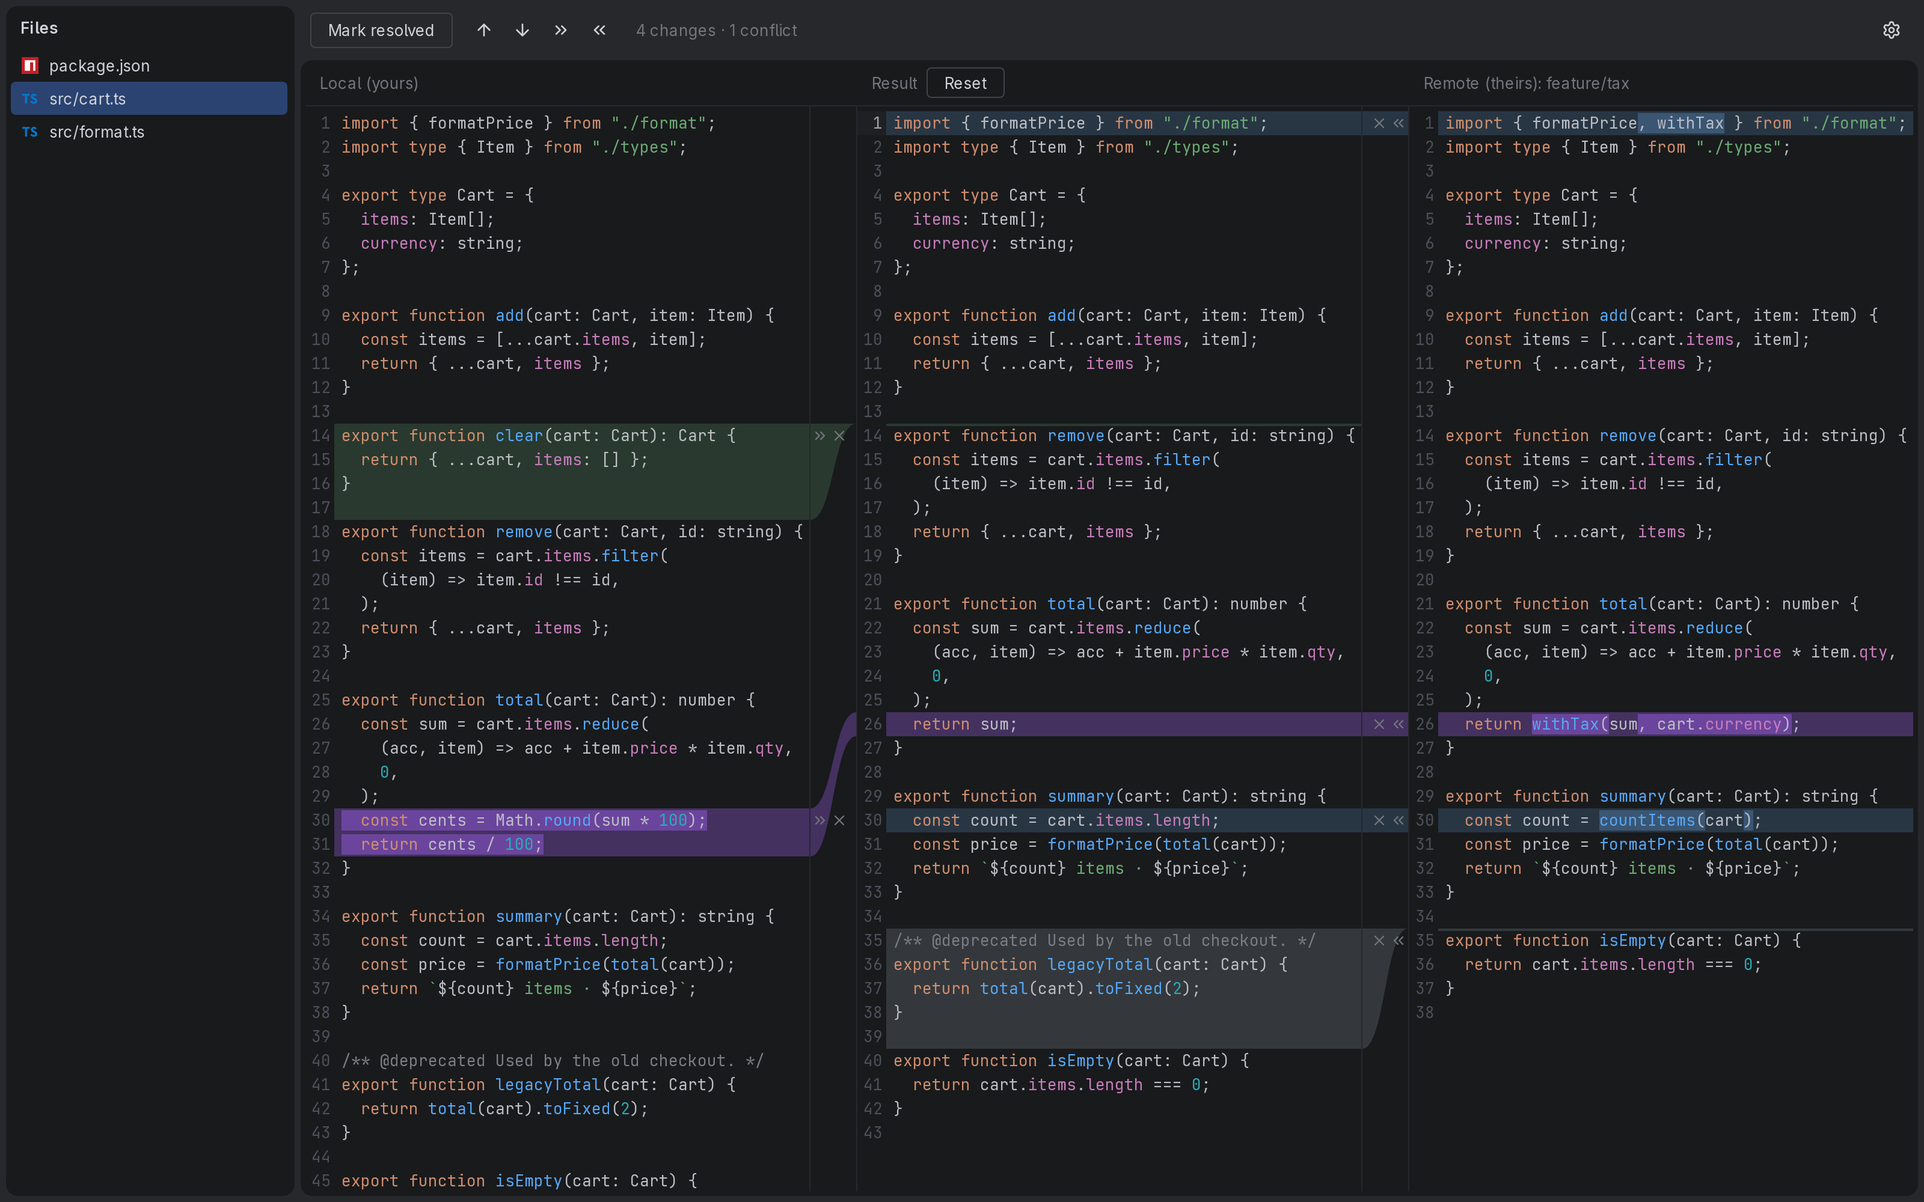
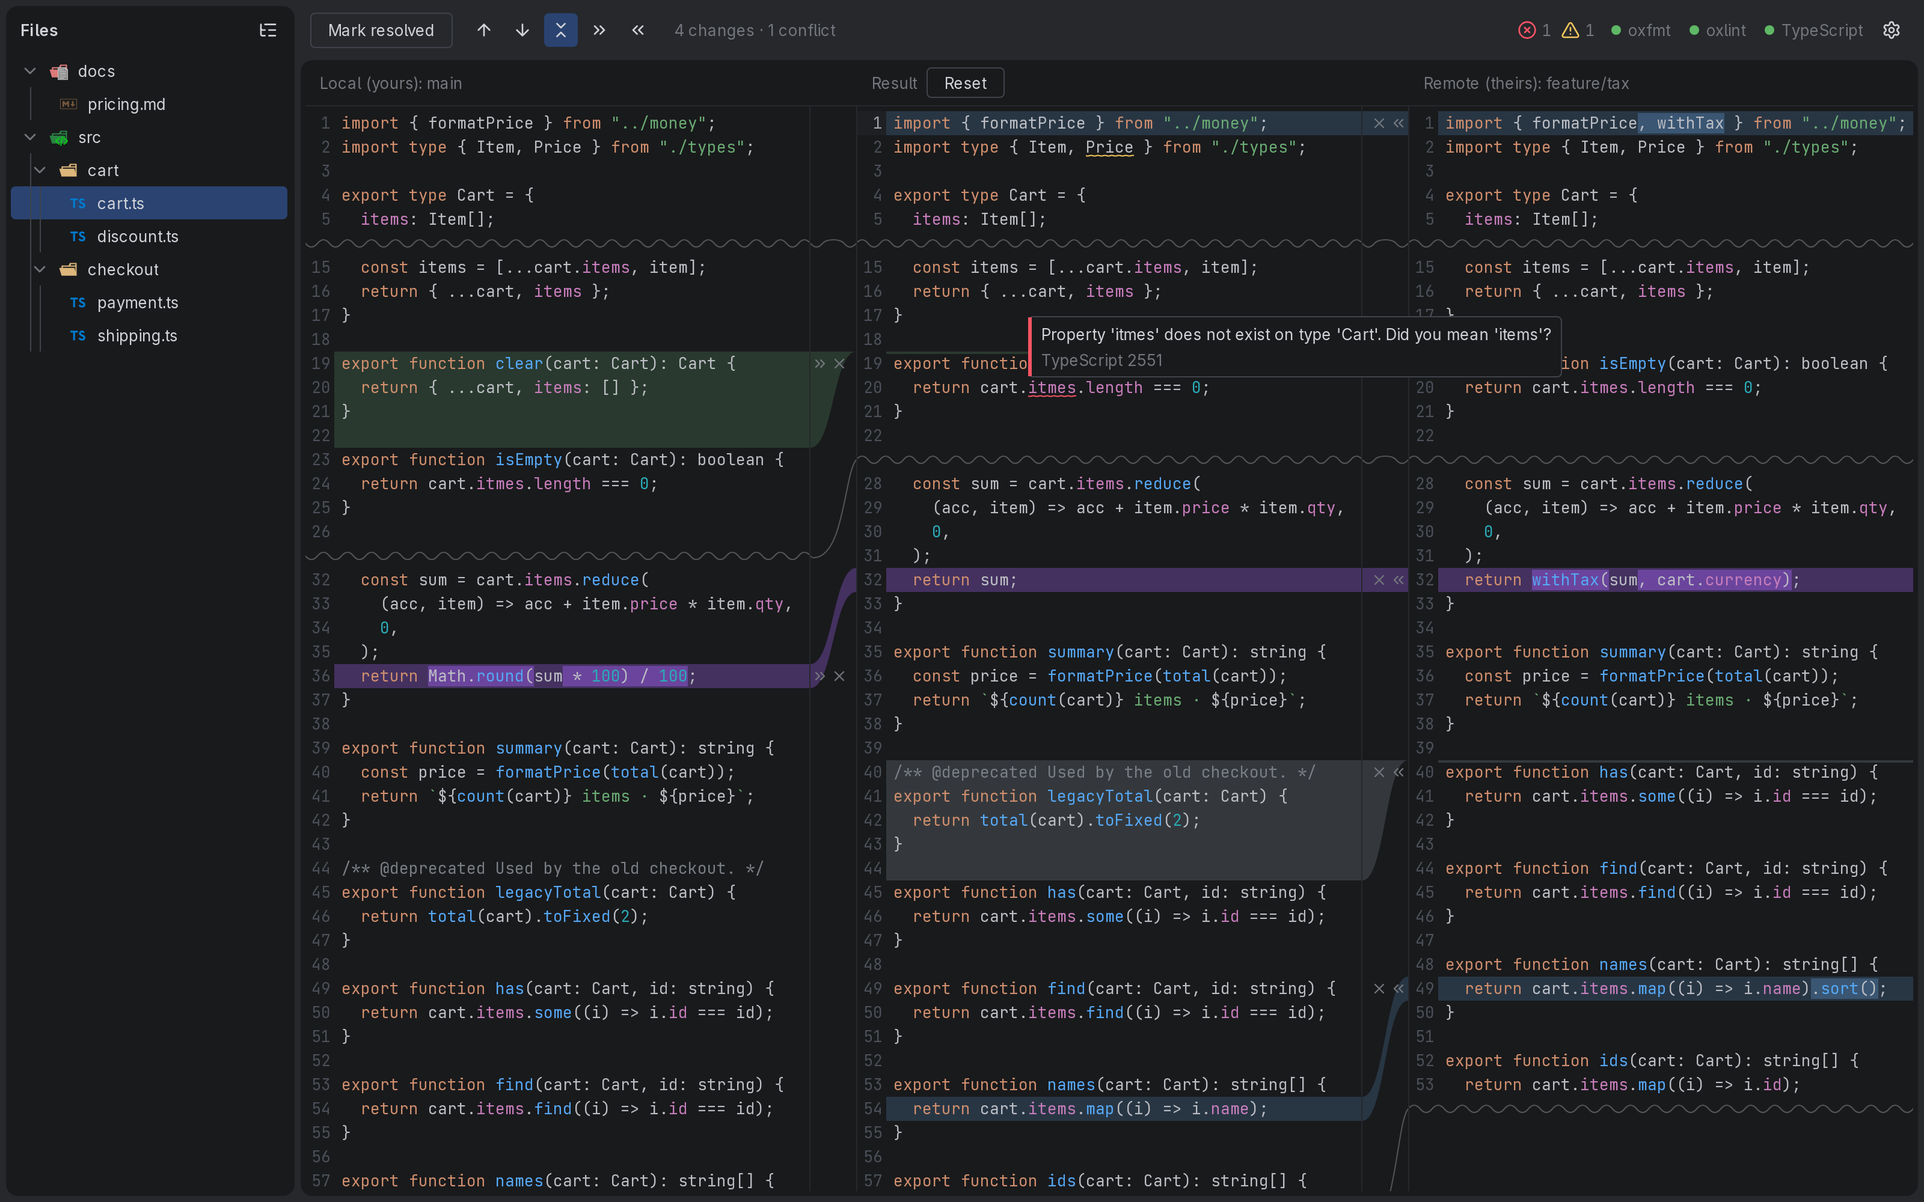
chore(release): 0.3.0
- version 0.3.0; changelog section dated 2026-10-14
- README: 0.3.0 file names, Ctrl+S, Reset to this run's start, left
  header, language servers with ruff as the added-server example
- screenshot: tree, waves, insertion, deletion, conflict, server
  problems with the hover message

Refs #986

diff --git a/README.md b/README.md
@@ -24,13 +24,13 @@ _A three-way merge window like the one in JetBrains IDEs, for every git conflict
 
 Download from the [releases page](../../releases):
 
-- **Linux**: the `.AppImage` or the `.deb`. The `.deb` (`sudo apt install ./yamt_0.2.0_amd64.deb`)
+- **Linux**: the `.AppImage` or the `.deb`. The `.deb` (`sudo apt install ./yamt_0.3.0_amd64.deb`)
   puts `yamt` on your PATH. For the AppImage, put it there yourself.
 
   Without AppImageLauncher:
 
   ```sh
-  install -Dm755 yamt_0.2.0_amd64.AppImage ~/.local/bin/yamt
+  install -Dm755 yamt_0.3.0_amd64.AppImage ~/.local/bin/yamt
   ```
 
   With AppImageLauncher (it stops a copy outside its folder with a dialog): let it integrate the
@@ -38,8 +38,8 @@ Download from the [releases page](../../releases):
   file:
 
   ```sh
-  ail-cli integrate yamt_0.2.0_amd64.AppImage
-  mkdir -p ~/.local/bin && ln -sf ~/Applications/yamt_0.2.0_amd64_*.AppImage ~/.local/bin/yamt
+  ail-cli integrate yamt_0.3.0_amd64.AppImage
+  mkdir -p ~/.local/bin && ln -sf ~/Applications/yamt_0.3.0_amd64_*.AppImage ~/.local/bin/yamt
   ```
 
   If `yamt` is then not found, `~/.local/bin` is not on your PATH: add
@@ -66,16 +66,23 @@ Download from the [releases page](../../releases):
 When `git merge`, `git rebase` or `git cherry-pick` stops with conflicts, run `yamt` in the repository (or `yamt --repo <path>` from anywhere). yamt starts from a terminal inside a repository; double-clicking it in a file manager or Finder shows nothing.
 
 - The file list on the left shows every conflicted file with git's view of it (resolved or not, also when you run `git add` elsewhere); click one to open it. Drag its edge to make it wider. The button at the right of its "Files" header shows it as a tree, folders first with VS Code's folder icons, and back as a list (remembered after a restart). Ctrl+B (Cmd+B on macOS) hides and shows the list.
-- The right pane's header names what you are merging in: the branch, or the commit and its subject.
+- The left pane's header names what is checked out: the branch, or the commit and its subject when no branch is (during a rebase). The right pane's header names what you are merging in: the branch, or the commit and its subject.
 - Lines that no change touches are collapsed behind a wavy line across all three panes, keeping 4 lines next to each change, so every change of a file is in view with little scrolling. Click the wave (in any pane or between them) to show 4 more lines next to each change, again for 8 more, a third time for the rest. Searching for text in hidden lines shows them. The toolbar's "Collapse unchanged fragments" button turns collapsing off and on again for every open file.
 - Each change has an arrow that applies it to the result and a × that ignores it; press one and drag up or down to apply or ignore several at once (one undo step). On a conflict, Ctrl+click (Cmd+click on macOS) on the arrow also ignores the other side, and on the × also takes the other side; holding Ctrl (Cmd) when releasing a drag does the same for every conflict it covers. Ctrl+click (Cmd+click) a highlighted change applies it, Ctrl+right-click (Cmd+right-click) ignores it. The toolbar applies all non-conflicting changes from the left or from the right in one click.
 - From the keyboard: click a side or one of its changes (an outline shows which), then Enter or Space applies the change, Backspace, Delete or x ignores it, Up and Down move between the changes still waiting on that side, and Left and Right switch sides. The toolbar's up and down arrows do the same as Up and Down (on the left side when no side has the keyboard). Ctrl+scroll (Cmd+scroll on macOS) over a side steps through its changes. Ctrl+Z / Ctrl+Shift+Z (Cmd on macOS) undo and redo from anywhere in the window. These are the default keys; settings can change them.
 - The result pane is a normal editor: type, Tab / Shift+Tab indent and outdent, undo and redo. Ctrl+F (Cmd+F) finds text in whichever pane you clicked.
-- The gear at the toolbar's right end opens settings: **Dark** or **Light** colours, on Linux **Subpixel** (colour-edged text like WebStorm's, the default) or **Greyscale** antialiasing, and every yamt shortcut — add, change or remove a key per action, or reset it (a key another action uses asks before moving). Settings are saved per user in `~/.config/yamt/settings.json` (`~/Library/Application Support/yamt/settings.json` on macOS, `%APPDATA%\yamt\settings.json` on Windows) and hold only what you changed; point the settings page at another file, for example in your dotfiles, and yamt reads and writes that one, picking up your edits whenever its window gets focus.
-- **Mark resolved** writes the result, stages the file and opens the next unresolved one. It turns blue once nothing is left to process. **Reset**, next to "Result", brings the conflict back as git left it.
-- Right-click the toolbar to choose which of its icon buttons show (previous/next change, apply all from either side, undo, redo; Undo and Redo start hidden). The choice applies to every file and is remembered after a restart; the keys work either way.
+- The gear at the toolbar's right end opens settings: **Dark** or **Light** colours, on Linux **Subpixel** (colour-edged text like WebStorm's, the default) or **Greyscale** antialiasing, every yamt shortcut — add, change or remove a key per action, or reset it (a key another action uses asks before moving) — and the language servers (below). Settings are saved per user in `~/.config/yamt/settings.json` (`~/Library/Application Support/yamt/settings.json` on macOS, `%APPDATA%\yamt\settings.json` on Windows) and hold only what you changed; point the settings page at another file, for example in your dotfiles, and yamt reads and writes that one, picking up your edits whenever its window gets focus.
+- Ctrl+S (Cmd+S on macOS) saves the result to the file without staging it, so you can stop and come back later: changes still waiting are written as git wrote them (a conflict as its conflict markers), and yamt finds them again next time. A dot at the right end of the Result header shows unsaved work; closing the window asks only when something is not saved.
+- **Mark resolved** writes the result, stages the file and opens the next unresolved one. It turns blue once nothing is left to process. **Reset**, next to "Result", brings the file back as it was when this run of yamt opened it.
+- Right-click the toolbar to choose which of its icon buttons show (previous/next change, collapse unchanged fragments, apply all from either side, undo, redo; Undo and Redo start hidden). The choice applies to every file and is remembered after a restart; the keys work either way.
 - A file deleted on one side and changed on the other shows the changed side with its changes, and two buttons: **Keep** and **Delete**. Other files the editor cannot show (binary, symlinks, submodules) get a choice between the two sides.
 - Closing the window exits with status 0 when every file is resolved and 1 otherwise, so scripts can tell. Then continue as usual (`git commit`, `git rebase --continue`, …).
+
+## Language servers
+
+yamt runs the language servers your project already has, so the result pane shows their problems as you type: an underline, with the message on hover. It finds oxlint, oxfmt, TypeScript and eslint in the repository's projects and asks once per repository whether to start them; settings can change the answer. Left of the gear, each server shows its state; click one to start, stop or restart it or to read its log. A server that needs a separate package (typescript-language-server for TypeScript 5 and 6, vscode-langservers-extracted for eslint) shows "Not installed" with the install command for your package manager; yamt starts it when you come back to the window. With a formatter running (oxfmt, or an added server that formats), Ctrl+S formats the result before saving and leaves changes that still wait as they are. yamt ships no language server.
+
+Other servers are added in settings under **Language servers → Added by you**: a command and the file types it serves. For Python with ruff, for example: command `ruff server`, file types `py, pyi`. yamt looks for the command in `node_modules/.bin` at the repository root, then on the PATH of the terminal it was started from; a command with a `/`, such as `.venv/bin/ruff server`, is read from the repository root. An added server is offered in every repository and runs where the repository's answer is Start; press **Start** under "This repository" if it is not.
 
 ## Make it feel built in
 

diff --git a/docs/slices/SLICES.md b/docs/slices/SLICES.md
@@ -528,6 +528,15 @@ fixtures between rounds and updates architecture and the project map before row 
 | 9   | 3.Y-setup (`briefs/3.Y-setup.md`): the once-per-repository question, detection at start and on focus, Settings "Language servers" section; the smoke repository (`scripts/lsp-repo.sh`)            | web-impl  | done   | `1d31e9d` (real app: question once, start, underline, Ctrl+S format+save, focus starts TypeScript, Settings, no process left); round 1 `2ed501d` (#966–#976: asking owns Escape, serverSetup owns start/focus, answer in force from settings, `haltAll`, one home for server words; real app re-run); both re-checks pass; notes `LspSetup*.md`          |
 | 10  | final run (`briefs/3.YZ-verify.md`): `just check`, `just mutants 16bc7f8`, `pnpm test:browser`, the real app per the acceptance above                                                              | verifier  | done   | at `71896bd`: `just check` pass (1215 web tests, golden 10/10); mutants: every survivor on changed lines judged (#983 wiring, seen live); test:browser cannot launch WebKit here (#985), MiniBrowser instead; real app 4.1–4.14 and fixture page pass, incl. both other headers, format sparing a conflict's edge lines, Undo/Redo; notes `LspVerify.md` |
 
+## Release 0.3.0 (session 16, owner request #986)
+
+| row | slice                                                                                                                                                                                                                                                                                                         | owner        | status | evidence                                                                                                                                                                                                                                                                                                                                                                                                                                                      |
+| --- | ------------------------------------------------------------------------------------------------------------------------------------------------------------------------------------------------------------------------------------------------------------------------------------------------------------- | ------------ | ------ | ------------------------------------------------------------------------------------------------------------------------------------------------------------------------------------------------------------------------------------------------------------------------------------------------------------------------------------------------------------------------------------------------------------------------------------------------------------- |
+| 1   | README screenshot showing most new features at once: an addition, a deletion, a conflict, collapsed lines, language-server problems, the file tree (`docs/screenshot.png`)                                                                                                                                    | orchestrator | done   | real app at `GDK_SCALE=2` (3200×2000), greyscale text; demo repository `/tmp/yamt-readme/shop` (throwaway builder `/tmp/yamt-readme-build.py`): `main` merging `feature/tax`, 5 conflicted files in `docs/`, `src/cart/`, `src/checkout/` shown as a tree; `src/cart/cart.ts`: local insertion, remote deletion, one conflict, two remote modifications, three waves; oxfmt, oxlint, TypeScript running, 1 error + 1 warning, the TypeScript message on hover |
+| 2   | version 0.3.0: Cargo.toml/lock, CHANGELOG `[0.3.0] - 2026-10-14` (formatting also by added servers), `.readmer/readme.json` + `readmer` (0.3.0 names, left header, Ctrl+S, Reset to this run's start, the toolbar menu's collapse button, a "Language servers" section with ruff as the added-server example) | orchestrator | done   | release commit below; the `--version` test follows `CARGO_PKG_VERSION` since 0.2.0, so no product file changes                                                                                                                                                                                                                                                                                                                                                |
+| 3   | final run before tagging (`briefs/release-0.3.0-verify.md`): `just check`, licences current, `.deb` bundle, `--version`, the release binary on the conflict and language-server projects                                                                                                                      | verifier     | open   |                                                                                                                                                                                                                                                                                                                                                                                                                                                               |
+| 4   | release build and publishing (`docs/slices/handoff-release-0.3.0.md`)                                                                                                                                                                                                                                         | human        | open   | CI at `2dd7675` (run 38632852557) was in progress at the bump                                                                                                                                                                                                                                                                                                                                                                                                 |
+
 ## Open product questions
 
 See `docs/architecture.md` §10. Answered ones move into `docs/plan.md` §2.

diff --git a/docs/slices/briefs/release-0.3.0-verify.md b/docs/slices/briefs/release-0.3.0-verify.md
@@ -1,0 +1,41 @@
+# Release 0.3.0 — final run before tagging
+
+Board "Release 0.3.0" row 3. Owner request #986: release 0.3.0. The release commit changes no product code: the
+workspace version is `0.3.0` (`Cargo.toml`, `Cargo.lock`), `CHANGELOG.md` has `## [0.3.0] - 2026-10-14`, the README is
+regenerated from `.readmer/readme.json`, and `docs/screenshot.png` is new. `crates/`, `frontend/`, `src-tauri/` are
+unchanged since `2ed501d`, which the last final run checked (`.omp/run/notes/LspVerify.md`, `just mutants 16bc7f8`
+included), so no mutation run this time. The `--version` test reads `CARGO_PKG_VERSION`. Read-only recipes only
+(VF6); you fix nothing (VF1).
+
+## Recipes
+
+1. `just check` — the whole gate. Paste each recipe's tail and the exit status.
+2. **Licences, as the release job checks them:** `scripts/third-party-licenses.sh && git diff --exit-code
+   THIRD_PARTY_LICENSES.txt`. Pass: exit 0, no diff.
+3. **Bundle:** `cargo tauri build --bundles deb`. Pass: `target/release/bundle/deb/yamt_0.3.0_amd64.deb` exists (the
+   README's install command uses that name); `dpkg -c` on it lists `usr/bin/yamt` as the only program in `usr/bin`;
+   `target/release/yamt --version` prints `yamt 0.3.0`.
+4. **The release binary** (`target/release/yamt`) on a private display through the app-session helper
+   (`pnpm -s -C frontend exec tsx scripts/app-session.ts <command> …`; `just app-session` breaks on JS parentheses):
+   `start-app --name <n> --binary target/release/yamt --repo <dir> [--settings <json>]`. Real input only. The owner's
+   own settings file (`~/.config/yamt/`) must stay untouched: say where the helper kept its settings.
+   1. **Conflict project:** `scripts/conflict-repo.sh /tmp/yamt-rel-merge`. The file list shows the 7 files; open a
+      text conflict: three panes with the changes; "Mark resolved" stages it (`git -C /tmp/yamt-rel-merge ls-files -u`
+      no longer lists it) and opens the next unresolved file.
+   2. **Language servers:** `XDG_CONFIG_HOME=/tmp/yamt-rel-config scripts/lsp-repo.sh --servers /tmp/yamt-rel-lsp`
+      (the flag adds ruff to the settings file under that folder; the first run may download
+      typescript-language-server and ruff into `~/.cache/yamt`), then start with `--settings "$(jq -c .
+      /tmp/yamt-rel-config/yamt/settings.json)"`. Pass:
+      - the start question lists "oxfmt, oxlint, TypeScript — web/" and "ruff — added by you"; after Start, all four
+        show a running dot left of the gear;
+      - `web/src/math.ts`: underlines on `debugger;` and `count`, the counts read 2 errors; hover on `count` shows
+        TypeScript's message;
+      - `api/stats.py`: `os` underlined, 1 warning;
+      - Ctrl+S in each: `spaced` becomes `export const spaced = { a: 1, b: 2 };`, `totals` becomes
+        `totals = {"a": 1, "b": 2}`; both files keep git's conflict markers on disk and stay in `git ls-files -u`.
+   3. **No leftovers:** after `stop`, `pgrep -af "oxlint --lsp|oxfmt --lsp|typescript-language-server|ruff server|
+      target/release/yamt"` finds nothing from this run. Remove `/tmp/yamt-rel-*`.
+
+## Report
+
+`gate` pass/fail, `failures`, `smoke` per `skill://verification`; environment facts (VF5); screenshots' paths.

diff --git a/CHANGELOG.md b/CHANGELOG.md
@@ -7,6 +7,8 @@ adheres to [Semantic Versioning](https://semver.org/spec/v2.0.0.html).
 
 ## [Unreleased]
 
+## [0.3.0] - 2026-10-14
+
 ### Added
 
 - Ctrl+B (Cmd+B on macOS) hides and shows the file list, from anywhere in the window; the merge view
@@ -36,8 +38,9 @@ adheres to [Semantic Versioning](https://semver.org/spec/v2.0.0.html).
   stay.
 - Language servers: yamt finds oxlint, oxfmt, TypeScript and eslint in the repository's projects and asks
   once per repository whether to start them. Their problems underline the Result as you type, with the
-  message on hover. Ctrl+S formats with oxfmt first (as one undo step, never touching changes that still
-  wait). Left of the settings gear, each server's state; its menu has Start, Stop, Restart and Show log.
+  message on hover. Ctrl+S formats first, with oxfmt or an added server that formats (as one undo step,
+  never touching changes that still wait). Left of the settings gear, each server's state; its menu has
+  Start, Stop, Restart and Show log.
   A server that needs a separate package (typescript-language-server for TypeScript 5 and 6,
   vscode-langservers-extracted for eslint) shows "Not installed" with the install command for the
   project's own package manager and a Copy button; yamt starts it when you come back to the window.
@@ -136,6 +139,7 @@ adheres to [Semantic Versioning](https://semver.org/spec/v2.0.0.html).
 - On Linux with an NVIDIA driver, the app switches off WebKitGTK's DMABUF renderer itself.
 - Releases for Linux (AppImage, `.deb`) and macOS (`.dmg`, unsigned).
 
-[Unreleased]: ../../compare/v0.2.0...HEAD
+[Unreleased]: ../../compare/v0.3.0...HEAD
+[0.3.0]: ../../compare/v0.2.0...v0.3.0
 [0.2.0]: ../../compare/v0.1.1...v0.2.0
 [0.1.0]: ../../releases/tag/v0.1.0
